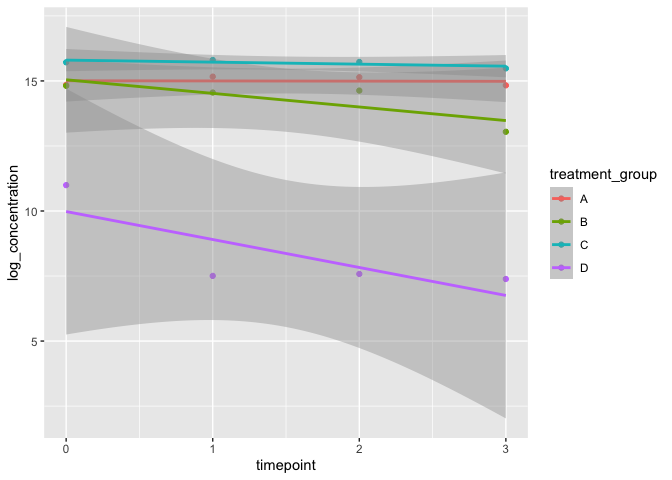
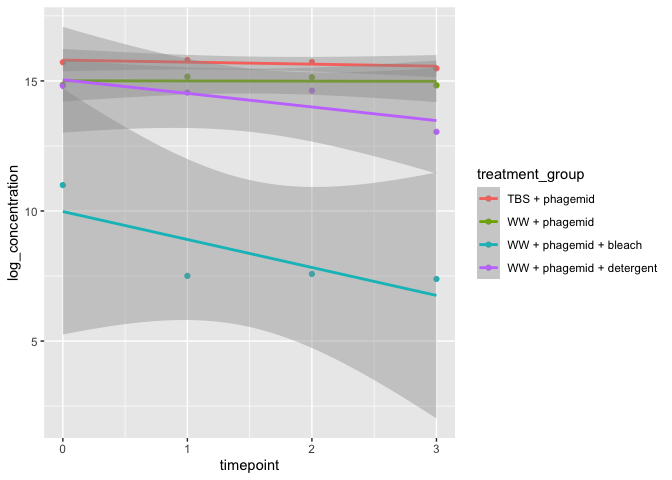
Give treatment groups informative names

diff --git a/decay-experiment/qpcr_analysis.md b/decay-experiment/qpcr_analysis.md
@@ -166,9 +166,20 @@ We will use regular expressions to match the expected pattern, which is:
 In our input data, the non-template control was named “B1_NTC”, which
 will break our naming scheme. We’ll rename it to “NTC” first.
 
-TODO: Convert the treatment group letters to actual names
+Finally, we’ll rename the single-letter treatment groups with more
+informative names and mark the negative controls so we can separate them
+out later.
 
 ``` r
+coding = list(
+  "A" = "WW + phagemid",
+  "B" = "WW + phagemid + detergent",
+  "C" = "TBS + phagemid",
+  "D" = "WW + phagemid + bleach",
+  "E" = "Just WW"
+)
+controls <-  c("Blank", "NTC", "Just WW")
+
 data_tidy <- data_extracted |> 
   mutate(
     sample_name = str_replace(sample_name, "B1_NTC", "NTC")
@@ -186,25 +197,26 @@ data_tidy <- data_extracted |>
     too_few = "align_start"
   ) |> 
   mutate(
-    treatment_group = as.factor(treatment_group),
+    treatment_group = recode(treatment_group, !!!coding),
+    control = treatment_group %in% controls,
     timepoint = as.integer(timepoint),
     tech_rep = as.factor(tech_rep)
   )
 kable(head(data_tidy, n = 10))
 ```
 
-|       ct | treatment_group | timepoint | tech_rep | well_position | ct_threshold | auto_ct_threshold | target_name    |
-|---------:|:----------------|----------:|:---------|:--------------|-------------:|:------------------|:---------------|
-|       NA | Blank           |        NA | NA       | A1            |          0.2 | FALSE             | Blank          |
-|       NA | Blank           |        NA | NA       | A2            |          0.2 | FALSE             | Blank          |
-|       NA | Blank           |        NA | NA       | A3            |          0.2 | FALSE             | Blank          |
-| 35.92194 | NTC             |        NA | NA       | B1            |          0.2 | FALSE             | Barcode_1\_NTC |
-|       NA | NTC             |        NA | NA       | B2            |          0.2 | FALSE             | Barcode_1\_NTC |
-| 36.77825 | NTC             |        NA | NA       | B3            |          0.2 | FALSE             | Barcode_1\_NTC |
-| 20.32065 | A               |         0 | 1        | C1            |          0.2 | FALSE             | Barcode_1      |
-| 19.76434 | A               |         0 | 2        | C2            |          0.2 | FALSE             | Barcode_1      |
-| 18.81370 | A               |         0 | 3        | C3            |          0.2 | FALSE             | Barcode_1      |
-| 18.81602 | A               |         1 | 1        | C4            |          0.2 | FALSE             | Barcode_1      |
+|       ct | treatment_group | timepoint | tech_rep | well_position | ct_threshold | auto_ct_threshold | target_name    | control |
+|---------:|:----------------|----------:|:---------|:--------------|-------------:|:------------------|:---------------|:--------|
+|       NA | Blank           |        NA | NA       | A1            |          0.2 | FALSE             | Blank          | TRUE    |
+|       NA | Blank           |        NA | NA       | A2            |          0.2 | FALSE             | Blank          | TRUE    |
+|       NA | Blank           |        NA | NA       | A3            |          0.2 | FALSE             | Blank          | TRUE    |
+| 35.92194 | NTC             |        NA | NA       | B1            |          0.2 | FALSE             | Barcode_1\_NTC | TRUE    |
+|       NA | NTC             |        NA | NA       | B2            |          0.2 | FALSE             | Barcode_1\_NTC | TRUE    |
+| 36.77825 | NTC             |        NA | NA       | B3            |          0.2 | FALSE             | Barcode_1\_NTC | TRUE    |
+| 20.32065 | WW + phagemid   |         0 | 1        | C1            |          0.2 | FALSE             | Barcode_1      | FALSE   |
+| 19.76434 | WW + phagemid   |         0 | 2        | C2            |          0.2 | FALSE             | Barcode_1      | FALSE   |
+| 18.81370 | WW + phagemid   |         0 | 3        | C3            |          0.2 | FALSE             | Barcode_1      | FALSE   |
+| 18.81602 | WW + phagemid   |         1 | 1        | C4            |          0.2 | FALSE             | Barcode_1      | FALSE   |
 
 Let’s make sure we have 9 blanks and NTCs (3 per plate) and 36 of the
 other treatments (3 pcr replicates \* 3 technical replicates \* 4
@@ -217,15 +229,15 @@ data_tidy |>
   kable()
 ```
 
-| treatment_group |   n |
-|:----------------|----:|
-| A               |  36 |
-| B               |  36 |
-| Blank           |   9 |
-| C               |  36 |
-| D               |  36 |
-| E               |  36 |
-| NTC             |   9 |
+| treatment_group           |   n |
+|:--------------------------|----:|
+| Blank                     |   9 |
+| Just WW                   |  36 |
+| NTC                       |   9 |
+| TBS + phagemid            |  36 |
+| WW + phagemid             |  36 |
+| WW + phagemid + bleach    |  36 |
+| WW + phagemid + detergent |  36 |
 
 First, let’s take a look at the Blanks and NTCs. These should mostly
 have `NA` for their ct value.
@@ -236,32 +248,32 @@ data_tidy |>
   kable()
 ```
 
-|        ct | treatment_group | timepoint | tech_rep | well_position | ct_threshold | auto_ct_threshold | target_name    |
-|----------:|:----------------|----------:|:---------|:--------------|-------------:|:------------------|:---------------|
-|        NA | Blank           |        NA | NA       | A1            |          0.2 | FALSE             | Blank          |
-|        NA | Blank           |        NA | NA       | A2            |          0.2 | FALSE             | Blank          |
-|        NA | Blank           |        NA | NA       | A3            |          0.2 | FALSE             | Blank          |
-| 35.921940 | NTC             |        NA | NA       | B1            |          0.2 | FALSE             | Barcode_1\_NTC |
-|        NA | NTC             |        NA | NA       | B2            |          0.2 | FALSE             | Barcode_1\_NTC |
-| 36.778248 | NTC             |        NA | NA       | B3            |          0.2 | FALSE             | Barcode_1\_NTC |
-| 33.499622 | Blank           |        NA | NA       | A1            |          0.2 | FALSE             | Blank          |
-|        NA | Blank           |        NA | NA       | A2            |          0.2 | FALSE             | Blank          |
-|  6.357395 | Blank           |        NA | NA       | A3            |          0.2 | FALSE             | Blank          |
-|        NA | NTC             |        NA | NA       | B1            |          0.2 | FALSE             | Barcode_1\_NTC |
-|        NA | NTC             |        NA | NA       | B2            |          0.2 | FALSE             | Barcode_1\_NTC |
-|        NA | NTC             |        NA | NA       | B3            |          0.2 | FALSE             | Barcode_1\_NTC |
-|        NA | Blank           |        NA | NA       | A1            |          0.2 | FALSE             | Blank          |
-|        NA | Blank           |        NA | NA       | A2            |          0.2 | FALSE             | Blank          |
-|        NA | Blank           |        NA | NA       | A3            |          0.2 | FALSE             | Blank          |
-| 39.660065 | NTC             |        NA | NA       | B1            |          0.2 | FALSE             | Barcode_1\_NTC |
-|        NA | NTC             |        NA | NA       | B2            |          0.2 | FALSE             | Barcode_1\_NTC |
-| 37.288032 | NTC             |        NA | NA       | B3            |          0.2 | FALSE             | Barcode_1\_NTC |
+|        ct | treatment_group | timepoint | tech_rep | well_position | ct_threshold | auto_ct_threshold | target_name    | control |
+|----------:|:----------------|----------:|:---------|:--------------|-------------:|:------------------|:---------------|:--------|
+|        NA | Blank           |        NA | NA       | A1            |          0.2 | FALSE             | Blank          | TRUE    |
+|        NA | Blank           |        NA | NA       | A2            |          0.2 | FALSE             | Blank          | TRUE    |
+|        NA | Blank           |        NA | NA       | A3            |          0.2 | FALSE             | Blank          | TRUE    |
+| 35.921940 | NTC             |        NA | NA       | B1            |          0.2 | FALSE             | Barcode_1\_NTC | TRUE    |
+|        NA | NTC             |        NA | NA       | B2            |          0.2 | FALSE             | Barcode_1\_NTC | TRUE    |
+| 36.778248 | NTC             |        NA | NA       | B3            |          0.2 | FALSE             | Barcode_1\_NTC | TRUE    |
+| 33.499622 | Blank           |        NA | NA       | A1            |          0.2 | FALSE             | Blank          | TRUE    |
+|        NA | Blank           |        NA | NA       | A2            |          0.2 | FALSE             | Blank          | TRUE    |
+|  6.357395 | Blank           |        NA | NA       | A3            |          0.2 | FALSE             | Blank          | TRUE    |
+|        NA | NTC             |        NA | NA       | B1            |          0.2 | FALSE             | Barcode_1\_NTC | TRUE    |
+|        NA | NTC             |        NA | NA       | B2            |          0.2 | FALSE             | Barcode_1\_NTC | TRUE    |
+|        NA | NTC             |        NA | NA       | B3            |          0.2 | FALSE             | Barcode_1\_NTC | TRUE    |
+|        NA | Blank           |        NA | NA       | A1            |          0.2 | FALSE             | Blank          | TRUE    |
+|        NA | Blank           |        NA | NA       | A2            |          0.2 | FALSE             | Blank          | TRUE    |
+|        NA | Blank           |        NA | NA       | A3            |          0.2 | FALSE             | Blank          | TRUE    |
+| 39.660065 | NTC             |        NA | NA       | B1            |          0.2 | FALSE             | Barcode_1\_NTC | TRUE    |
+|        NA | NTC             |        NA | NA       | B2            |          0.2 | FALSE             | Barcode_1\_NTC | TRUE    |
+| 37.288032 | NTC             |        NA | NA       | B3            |          0.2 | FALSE             | Barcode_1\_NTC | TRUE    |
 
 We can make a boxplot to compare the distribution of ct across
 treatments. To disply the NAs, we’ll set them to one more than the
-maximum possible values. We see that the Blanks, NTCs, and treatment E
-(which is some sort of negative control?) have CT \> 35, with a few
-outliers. We’ll probably want to check those at some point.
+maximum possible values. We see that the Blanks, NTCs, and Just WW have
+CT \> 35, with a few outliers. We’ll probably want to check those at
+some point.
 
 ``` r
 ct_max <- max(data_tidy$ct, na.rm = TRUE) + 1
@@ -309,9 +321,8 @@ this into one conversion.
 We’re also going to filter out the negative controls from now on.
 
 ``` r
-treatments_to_keep <- c("A", "B", "C", "D")
 data_concentration <- data_tidy |>
-  filter(treatment_group %in% treatments_to_keep) |>
+  filter(!control) |>
   mutate(
     dilution = (ct - std_curve_intercept) / std_curve_slope,
     log_concentration = log(concentration_at_d0) + log(dilution_factor) * dilution,
@@ -319,18 +330,18 @@ data_concentration <- data_tidy |>
 kable(head(data_concentration, n = 10))
 ```
 
-|       ct | treatment_group | timepoint | tech_rep | well_position | ct_threshold | auto_ct_threshold | target_name | dilution | log_concentration |
-|---------:|:----------------|----------:|:---------|:--------------|-------------:|:------------------|:------------|---------:|------------------:|
-| 20.32065 | A               |         0 | 1        | C1            |          0.2 | FALSE             | Barcode_1   | 6.288793 |          14.46750 |
-| 19.76434 | A               |         0 | 2        | C2            |          0.2 | FALSE             | Barcode_1   | 6.439739 |          14.81506 |
-| 18.81370 | A               |         0 | 3        | C3            |          0.2 | FALSE             | Barcode_1   | 6.697681 |          15.40900 |
-| 18.81602 | A               |         1 | 1        | C4            |          0.2 | FALSE             | Barcode_1   | 6.697049 |          15.40754 |
-| 19.44741 | A               |         1 | 2        | C5            |          0.2 | FALSE             | Barcode_1   | 6.525733 |          15.01307 |
-| 19.54228 | A               |         1 | 3        | C6            |          0.2 | FALSE             | Barcode_1   | 6.499993 |          14.95380 |
-| 18.98299 | A               |         2 | 1        | C7            |          0.2 | FALSE             | Barcode_1   | 6.651747 |          15.30323 |
-| 18.98078 | A               |         2 | 2        | C8            |          0.2 | FALSE             | Barcode_1   | 6.652345 |          15.30461 |
-| 19.66541 | A               |         2 | 3        | C9            |          0.2 | FALSE             | Barcode_1   | 6.466582 |          14.87687 |
-| 20.02242 | A               |         3 | 1        | C10           |          0.2 | FALSE             | Barcode_1   | 6.369714 |          14.65382 |
+|       ct | treatment_group | timepoint | tech_rep | well_position | ct_threshold | auto_ct_threshold | target_name | control | dilution | log_concentration |
+|---------:|:----------------|----------:|:---------|:--------------|-------------:|:------------------|:------------|:--------|---------:|------------------:|
+| 20.32065 | WW + phagemid   |         0 | 1        | C1            |          0.2 | FALSE             | Barcode_1   | FALSE   | 6.288793 |          14.46750 |
+| 19.76434 | WW + phagemid   |         0 | 2        | C2            |          0.2 | FALSE             | Barcode_1   | FALSE   | 6.439739 |          14.81506 |
+| 18.81370 | WW + phagemid   |         0 | 3        | C3            |          0.2 | FALSE             | Barcode_1   | FALSE   | 6.697681 |          15.40900 |
+| 18.81602 | WW + phagemid   |         1 | 1        | C4            |          0.2 | FALSE             | Barcode_1   | FALSE   | 6.697049 |          15.40754 |
+| 19.44741 | WW + phagemid   |         1 | 2        | C5            |          0.2 | FALSE             | Barcode_1   | FALSE   | 6.525733 |          15.01307 |
+| 19.54228 | WW + phagemid   |         1 | 3        | C6            |          0.2 | FALSE             | Barcode_1   | FALSE   | 6.499993 |          14.95380 |
+| 18.98299 | WW + phagemid   |         2 | 1        | C7            |          0.2 | FALSE             | Barcode_1   | FALSE   | 6.651747 |          15.30323 |
+| 18.98078 | WW + phagemid   |         2 | 2        | C8            |          0.2 | FALSE             | Barcode_1   | FALSE   | 6.652345 |          15.30461 |
+| 19.66541 | WW + phagemid   |         2 | 3        | C9            |          0.2 | FALSE             | Barcode_1   | FALSE   | 6.466582 |          14.87687 |
+| 20.02242 | WW + phagemid   |         3 | 1        | C10           |          0.2 | FALSE             | Barcode_1   | FALSE   | 6.369714 |          14.65382 |
 
 Since we have three PCR replicates per technical replicate, we can
 summarize our data with min, median, and max without any loss of
@@ -348,56 +359,56 @@ data_concentration |>
   kable()
 ```
 
-| treatment_group | timepoint | tech_rep |  conc_min |  conc_med |  conc_max |
-|:----------------|----------:|:---------|----------:|----------:|----------:|
-| A               |         0 | 1        | 14.467498 | 14.539121 | 14.559697 |
-| A               |         0 | 2        | 14.704875 | 14.752250 | 14.815063 |
-| A               |         0 | 3        | 15.020836 | 15.360500 | 15.408997 |
-| A               |         1 | 1        | 15.315593 | 15.392311 | 15.407542 |
-| A               |         1 | 2        | 15.013071 | 15.123416 | 15.193376 |
-| A               |         1 | 3        | 14.953803 | 14.979106 | 15.100242 |
-| A               |         2 | 1        | 15.222434 | 15.233419 | 15.303230 |
-| A               |         2 | 2        | 15.183994 | 15.304607 | 15.330360 |
-| A               |         2 | 3        | 14.873419 | 14.876872 | 14.948056 |
-| A               |         3 | 1        | 14.631852 | 14.651272 | 14.653825 |
-| A               |         3 | 2        | 14.742572 | 14.751832 | 14.800324 |
-| A               |         3 | 3        | 15.042985 | 15.098861 | 15.100316 |
-| B               |         0 | 1        | 14.691215 | 14.707181 | 14.723714 |
-| B               |         0 | 2        | 14.937496 | 14.981082 | 14.986873 |
-| B               |         0 | 3        | 14.630075 | 14.772313 | 14.884848 |
-| B               |         1 | 1        | 14.460672 | 14.507884 | 14.530743 |
-| B               |         1 | 2        | 14.431200 | 14.524827 | 14.569874 |
-| B               |         1 | 3        | 14.375207 | 14.747474 | 14.834689 |
-| B               |         2 | 1        | 14.445850 | 14.506649 | 14.514520 |
-| B               |         2 | 2        | 14.399098 | 14.540501 | 14.597506 |
-| B               |         2 | 3        | 14.829546 | 14.885799 | 14.944224 |
-| B               |         3 | 1        | 13.393890 | 13.420946 | 13.479134 |
-| B               |         3 | 2        | 13.508365 | 13.536396 | 13.662985 |
-| B               |         3 | 3        | 12.045272 | 12.175395 | 12.181063 |
-| C               |         0 | 1        | 15.585203 | 15.730980 | 15.774331 |
-| C               |         0 | 2        | 15.640385 | 15.744967 | 15.827471 |
-| C               |         0 | 3        | 15.392854 | 15.860508 | 15.891046 |
-| C               |         1 | 1        | 15.766611 | 15.774405 | 15.815867 |
-| C               |         1 | 2        | 15.799626 | 15.835428 | 15.892060 |
-| C               |         1 | 3        | 15.766942 | 15.780796 | 15.817647 |
-| C               |         2 | 1        | 15.630437 | 15.666167 | 15.683122 |
-| C               |         2 | 2        | 15.748995 | 15.762468 | 15.825183 |
-| C               |         2 | 3        | 15.745316 | 15.745680 | 15.763973 |
-| C               |         3 | 1        | 15.471512 | 15.509831 | 15.526576 |
-| C               |         3 | 2        | 15.490110 | 15.504371 | 15.567375 |
-| C               |         3 | 3        | 15.388014 | 15.439595 | 15.448920 |
-| D               |         0 | 1        | 11.023879 | 11.052359 | 11.103619 |
-| D               |         0 | 2        | 10.819916 | 10.849192 | 11.061266 |
-| D               |         0 | 3        | 10.687431 | 11.142662 | 11.213070 |
-| D               |         1 | 1        |  7.185397 |  7.231021 |  7.245195 |
-| D               |         1 | 2        |  7.247885 |  7.276237 |  7.328588 |
-| D               |         1 | 3        |  7.880027 |  8.045826 |  8.107687 |
-| D               |         2 | 1        |  7.131532 |  7.219262 |  7.287010 |
-| D               |         2 | 2        |  7.770489 |  7.813055 |  7.832202 |
-| D               |         2 | 3        |  7.650187 |  7.672781 |  7.842286 |
-| D               |         3 | 1        |  7.398282 |  7.554920 |  7.801422 |
-| D               |         3 | 2        |  6.148432 |  6.912249 |  7.093166 |
-| D               |         3 | 3        |  7.767307 |  7.889023 |  7.912897 |
+| treatment_group           | timepoint | tech_rep |  conc_min |  conc_med |  conc_max |
+|:--------------------------|----------:|:---------|----------:|----------:|----------:|
+| TBS + phagemid            |         0 | 1        | 15.585203 | 15.730980 | 15.774331 |
+| TBS + phagemid            |         0 | 2        | 15.640385 | 15.744967 | 15.827471 |
+| TBS + phagemid            |         0 | 3        | 15.392854 | 15.860508 | 15.891046 |
+| TBS + phagemid            |         1 | 1        | 15.766611 | 15.774405 | 15.815867 |
+| TBS + phagemid            |         1 | 2        | 15.799626 | 15.835428 | 15.892060 |
+| TBS + phagemid            |         1 | 3        | 15.766942 | 15.780796 | 15.817647 |
+| TBS + phagemid            |         2 | 1        | 15.630437 | 15.666167 | 15.683122 |
+| TBS + phagemid            |         2 | 2        | 15.748995 | 15.762468 | 15.825183 |
+| TBS + phagemid            |         2 | 3        | 15.745316 | 15.745680 | 15.763973 |
+| TBS + phagemid            |         3 | 1        | 15.471512 | 15.509831 | 15.526576 |
+| TBS + phagemid            |         3 | 2        | 15.490110 | 15.504371 | 15.567375 |
+| TBS + phagemid            |         3 | 3        | 15.388014 | 15.439595 | 15.448920 |
+| WW + phagemid             |         0 | 1        | 14.467498 | 14.539121 | 14.559697 |
+| WW + phagemid             |         0 | 2        | 14.704875 | 14.752250 | 14.815063 |
+| WW + phagemid             |         0 | 3        | 15.020836 | 15.360500 | 15.408997 |
+| WW + phagemid             |         1 | 1        | 15.315593 | 15.392311 | 15.407542 |
+| WW + phagemid             |         1 | 2        | 15.013071 | 15.123416 | 15.193376 |
+| WW + phagemid             |         1 | 3        | 14.953803 | 14.979106 | 15.100242 |
+| WW + phagemid             |         2 | 1        | 15.222434 | 15.233419 | 15.303230 |
+| WW + phagemid             |         2 | 2        | 15.183994 | 15.304607 | 15.330360 |
+| WW + phagemid             |         2 | 3        | 14.873419 | 14.876872 | 14.948056 |
+| WW + phagemid             |         3 | 1        | 14.631852 | 14.651272 | 14.653825 |
+| WW + phagemid             |         3 | 2        | 14.742572 | 14.751832 | 14.800324 |
+| WW + phagemid             |         3 | 3        | 15.042985 | 15.098861 | 15.100316 |
+| WW + phagemid + bleach    |         0 | 1        | 11.023879 | 11.052359 | 11.103619 |
+| WW + phagemid + bleach    |         0 | 2        | 10.819916 | 10.849192 | 11.061266 |
+| WW + phagemid + bleach    |         0 | 3        | 10.687431 | 11.142662 | 11.213070 |
+| WW + phagemid + bleach    |         1 | 1        |  7.185397 |  7.231021 |  7.245195 |
+| WW + phagemid + bleach    |         1 | 2        |  7.247885 |  7.276237 |  7.328588 |
+| WW + phagemid + bleach    |         1 | 3        |  7.880027 |  8.045826 |  8.107687 |
+| WW + phagemid + bleach    |         2 | 1        |  7.131532 |  7.219262 |  7.287010 |
+| WW + phagemid + bleach    |         2 | 2        |  7.770489 |  7.813055 |  7.832202 |
+| WW + phagemid + bleach    |         2 | 3        |  7.650187 |  7.672781 |  7.842286 |
+| WW + phagemid + bleach    |         3 | 1        |  7.398282 |  7.554920 |  7.801422 |
+| WW + phagemid + bleach    |         3 | 2        |  6.148432 |  6.912249 |  7.093166 |
+| WW + phagemid + bleach    |         3 | 3        |  7.767307 |  7.889023 |  7.912897 |
+| WW + phagemid + detergent |         0 | 1        | 14.691215 | 14.707181 | 14.723714 |
+| WW + phagemid + detergent |         0 | 2        | 14.937496 | 14.981082 | 14.986873 |
+| WW + phagemid + detergent |         0 | 3        | 14.630075 | 14.772313 | 14.884848 |
+| WW + phagemid + detergent |         1 | 1        | 14.460672 | 14.507884 | 14.530743 |
+| WW + phagemid + detergent |         1 | 2        | 14.431200 | 14.524827 | 14.569874 |
+| WW + phagemid + detergent |         1 | 3        | 14.375207 | 14.747474 | 14.834689 |
+| WW + phagemid + detergent |         2 | 1        | 14.445850 | 14.506649 | 14.514520 |
+| WW + phagemid + detergent |         2 | 2        | 14.399098 | 14.540501 | 14.597506 |
+| WW + phagemid + detergent |         2 | 3        | 14.829546 | 14.885799 | 14.944224 |
+| WW + phagemid + detergent |         3 | 1        | 13.393890 | 13.420946 | 13.479134 |
+| WW + phagemid + detergent |         3 | 2        | 13.508365 | 13.536396 | 13.662985 |
+| WW + phagemid + detergent |         3 | 3        | 12.045272 | 12.175395 | 12.181063 |
 
 # Plot log concentrations vs time for each condition
 
@@ -504,6 +515,7 @@ data_concentration |>
 ![](qpcr_analysis_files/figure-gfm/unnamed-chunk-17-1.png)<!-- -->
 
 ``` r
+treatments_to_keep <- unique(data_concentration$treatment_group) 
 models <- treatments_to_keep |> 
   map(~ filter(data_concentration, treatment_group == .)) |>
   map(~ lm(log_concentration ~ timepoint, .)) |>
@@ -516,16 +528,16 @@ models <- treatments_to_keep |>
 kable(models)
 ```
 
-| treatment_group | collapsed | term        |   estimate | std.error |   statistic |   p.value |
-|:----------------|:----------|:------------|-----------:|----------:|------------:|----------:|
-| A               | FALSE     | (Intercept) | 15.0071602 | 0.0783592 | 191.5175973 | 0.0000000 |
-| A               | FALSE     | timepoint   | -0.0074119 | 0.0418847 |  -0.1769585 | 0.8605909 |
-| B               | FALSE     | (Intercept) | 15.0443407 | 0.1526598 |  98.5481520 | 0.0000000 |
-| B               | FALSE     | timepoint   | -0.5228103 | 0.0816001 |  -6.4069822 | 0.0000003 |
-| C               | FALSE     | (Intercept) | 15.8001163 | 0.0342951 | 460.7106971 | 0.0000000 |
-| C               | FALSE     | timepoint   | -0.0775818 | 0.0183315 |  -4.2321566 | 0.0001657 |
-| D               | FALSE     | (Intercept) |  9.9792068 | 0.2863794 |  34.8461059 | 0.0000000 |
-| D               | FALSE     | timepoint   | -1.0750682 | 0.1530762 |  -7.0230909 | 0.0000000 |
+| treatment_group           | collapsed | term        |   estimate | std.error |   statistic |   p.value |
+|:--------------------------|:----------|:------------|-----------:|----------:|------------:|----------:|
+| WW + phagemid             | FALSE     | (Intercept) | 15.0071602 | 0.0783592 | 191.5175973 | 0.0000000 |
+| WW + phagemid             | FALSE     | timepoint   | -0.0074119 | 0.0418847 |  -0.1769585 | 0.8605909 |
+| WW + phagemid + detergent | FALSE     | (Intercept) | 15.0443407 | 0.1526598 |  98.5481520 | 0.0000000 |
+| WW + phagemid + detergent | FALSE     | timepoint   | -0.5228103 | 0.0816001 |  -6.4069822 | 0.0000003 |
+| WW + phagemid + bleach    | FALSE     | (Intercept) |  9.9792068 | 0.2863794 |  34.8461059 | 0.0000000 |
+| WW + phagemid + bleach    | FALSE     | timepoint   | -1.0750682 | 0.1530762 |  -7.0230909 | 0.0000000 |
+| TBS + phagemid            | FALSE     | (Intercept) | 15.8001163 | 0.0342951 | 460.7106971 | 0.0000000 |
+| TBS + phagemid            | FALSE     | timepoint   | -0.0775818 | 0.0183315 |  -4.2321566 | 0.0001657 |
 
 ## Collapsing qPCR replicates
 
@@ -573,16 +585,16 @@ models_collapsed <- treatments_to_keep |>
 kable(models_collapsed)
 ```
 
-| treatment_group | collapsed | term        |   estimate | std.error |   statistic |   p.value |
-|:----------------|:----------|:------------|-----------:|----------:|------------:|----------:|
-| A               | TRUE      | (Intercept) | 15.0071602 | 0.1858890 |  80.7318212 | 0.0001534 |
-| A               | TRUE      | timepoint   | -0.0074119 | 0.0993619 |  -0.0745946 | 0.9473269 |
-| B               | TRUE      | (Intercept) | 15.0443407 | 0.4725921 |  31.8336698 | 0.0009853 |
-| B               | TRUE      | timepoint   | -0.5228103 | 0.2526111 |  -2.0696254 | 0.1743497 |
-| C               | TRUE      | (Intercept) | 15.8001163 | 0.0994830 | 158.8222377 | 0.0000396 |
-| C               | TRUE      | timepoint   | -0.0775818 | 0.0531759 |  -1.4589646 | 0.2819668 |
-| D               | TRUE      | (Intercept) |  9.9792068 | 1.0988973 |   9.0811095 | 0.0119099 |
-| D               | TRUE      | timepoint   | -1.0750682 | 0.5873853 |  -1.8302607 | 0.2086985 |
+| treatment_group           | collapsed | term        |   estimate | std.error |   statistic |   p.value |
+|:--------------------------|:----------|:------------|-----------:|----------:|------------:|----------:|
+| WW + phagemid             | TRUE      | (Intercept) | 15.0071602 | 0.1858890 |  80.7318212 | 0.0001534 |
+| WW + phagemid             | TRUE      | timepoint   | -0.0074119 | 0.0993619 |  -0.0745946 | 0.9473269 |
+| WW + phagemid + detergent | TRUE      | (Intercept) | 15.0443407 | 0.4725921 |  31.8336698 | 0.0009853 |
+| WW + phagemid + detergent | TRUE      | timepoint   | -0.5228103 | 0.2526111 |  -2.0696254 | 0.1743497 |
+| WW + phagemid + bleach    | TRUE      | (Intercept) |  9.9792068 | 1.0988973 |   9.0811095 | 0.0119099 |
+| WW + phagemid + bleach    | TRUE      | timepoint   | -1.0750682 | 0.5873853 |  -1.8302607 | 0.2086985 |
+| TBS + phagemid            | TRUE      | (Intercept) | 15.8001163 | 0.0994830 | 158.8222377 | 0.0000396 |
+| TBS + phagemid            | TRUE      | timepoint   | -0.0775818 | 0.0531759 |  -1.4589646 | 0.2819668 |
 
 Collapsing the qPCR replicates increases the standard error of the
 regression coefficients:
